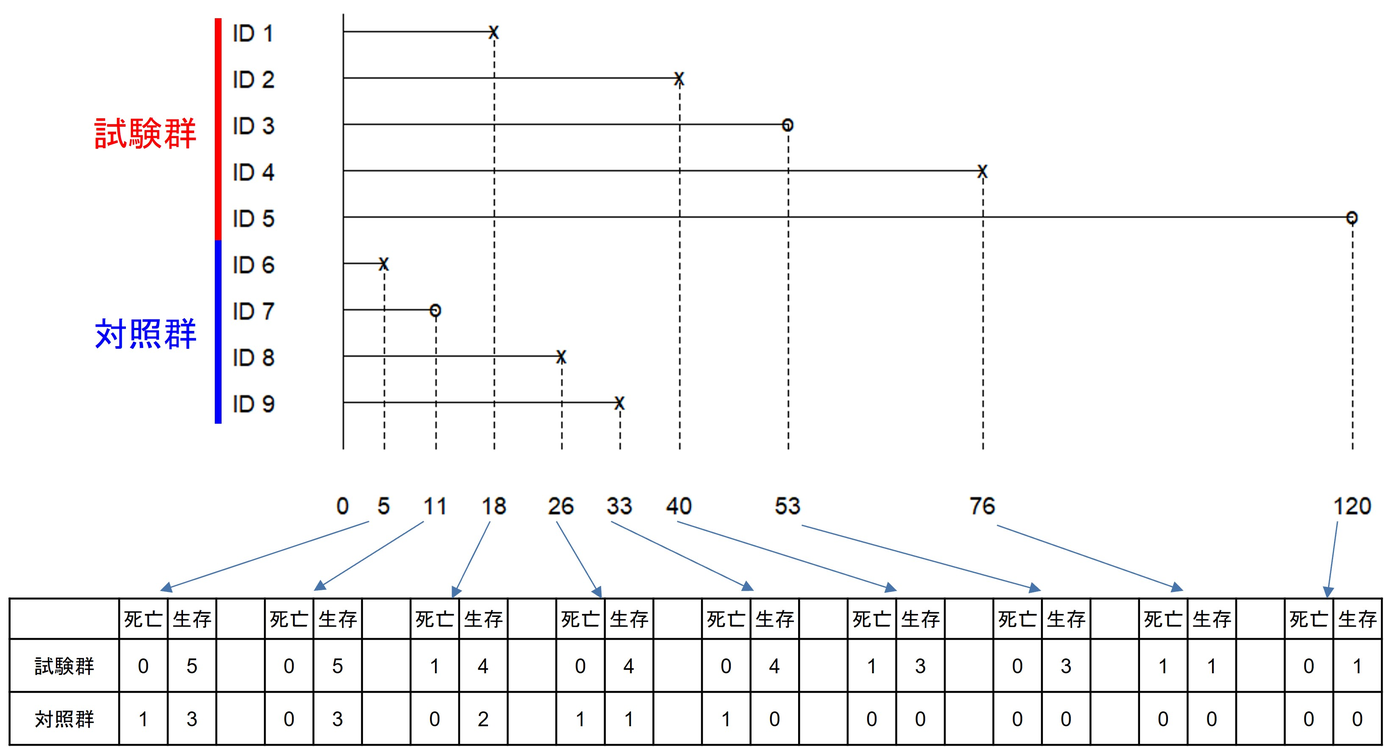
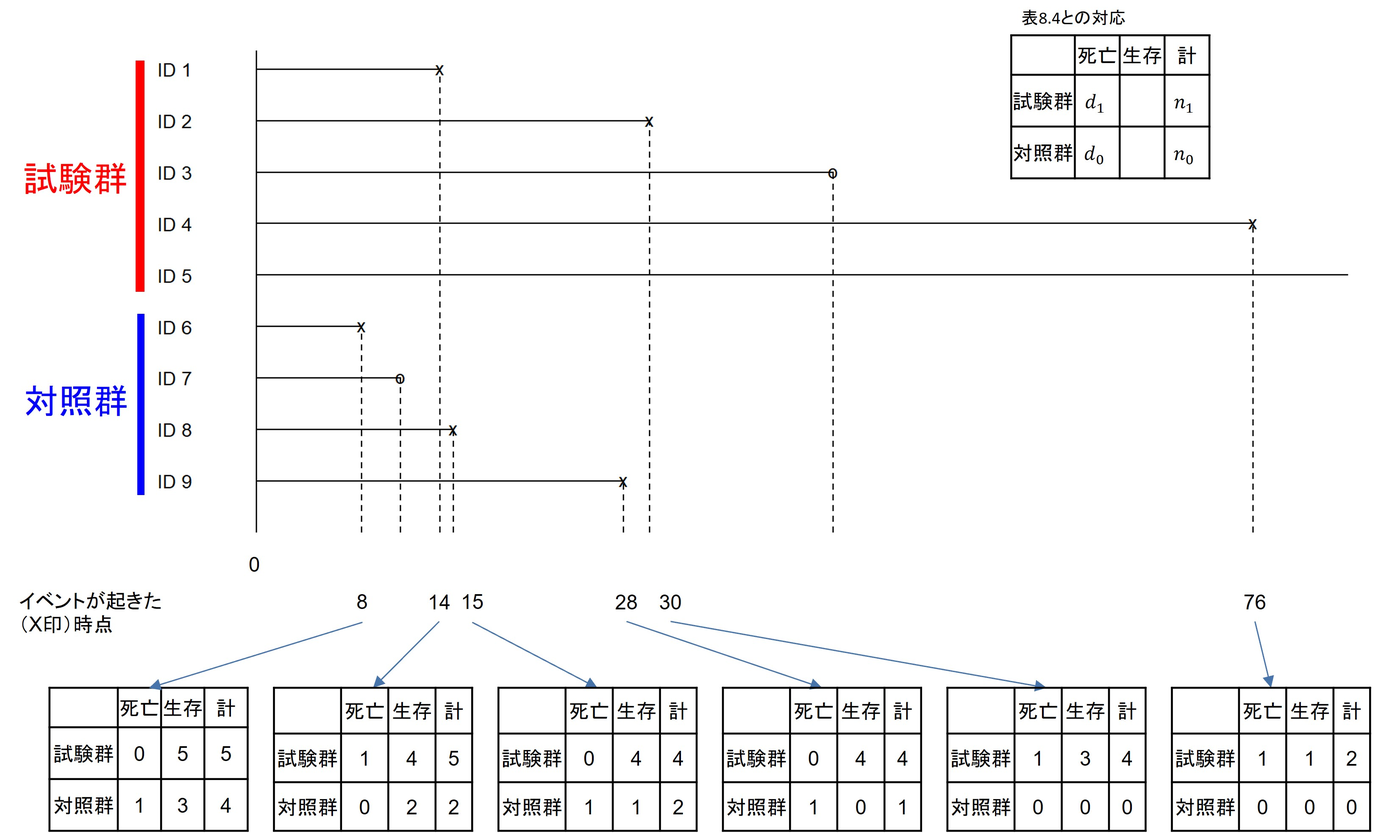
Built site for gh-pages

diff --git a/posts/data/index.html b/posts/data/index.html
@@ -7,7 +7,7 @@
 <meta name="viewport" content="width=device-width, initial-scale=1.0, user-scalable=yes">
 
 <meta name="author" content="川口淳">
-<meta name="dcterms.date" content="2026-10-19">
+<meta name="dcterms.date" content="2026-10-30">
 
 <title>演習問題のデータ – サポートページ</title>
 <style>
@@ -169,7 +169,7 @@ ul.task-list li input[type="checkbox"] {
       <div>
       <div class="quarto-title-meta-heading">Published</div>
       <div class="quarto-title-meta-contents">
-        <p class="date">2026-10-19</p>
+        <p class="date">2026-10-30</p>
       </div>
     </div>
     
@@ -203,8 +203,8 @@ ul.task-list li input[type="checkbox"] {
 <p>データファイル：<a href="./2群の血圧変化量の差.xlsx">2群の血圧変化量の差.xlsx</a></p>
 <div class="cell">
 <div class="cell-output-display">
-<div class="datatables html-widget html-fill-item" id="htmlwidget-681cce1bd1fee921a76f" style="width:100%;height:auto;"></div>
-<script type="application/json" data-for="htmlwidget-681cce1bd1fee921a76f">{"x":{"filter":"top","vertical":false,"filterHTML":"<tr>\n  <td><\/td>\n  <td data-type=\"character\" style=\"vertical-align: top;\">\n    <div class=\"form-group has-feedback\" style=\"margin-bottom: auto;\">\n      <input type=\"search\" placeholder=\"All\" class=\"form-control\" style=\"width: 100%;\"/>\n      <span class=\"glyphicon glyphicon-remove-circle form-control-feedback\"><\/span>\n    <\/div>\n  <\/td>\n  <td data-type=\"character\" style=\"vertical-align: top;\">\n    <div class=\"form-group has-feedback\" style=\"margin-bottom: auto;\">\n      <input type=\"search\" placeholder=\"All\" class=\"form-control\" style=\"width: 100%;\"/>\n      <span class=\"glyphicon glyphicon-remove-circle form-control-feedback\"><\/span>\n    <\/div>\n  <\/td>\n  <td data-type=\"number\" style=\"vertical-align: top;\">\n    <div class=\"form-group has-feedback\" style=\"margin-bottom: auto;\">\n      <input type=\"search\" placeholder=\"All\" class=\"form-control\" style=\"width: 100%;\"/>\n      <span class=\"glyphicon glyphicon-remove-circle form-control-feedback\"><\/span>\n    <\/div>\n    <div style=\"display: none;position: absolute;width: 200px;opacity: 1\">\n      <div data-min=\"-6\" data-max=\"2\"><\/div>\n      <span style=\"float: left;\"><\/span>\n      <span style=\"float: right;\"><\/span>\n    <\/div>\n  <\/td>\n<\/tr>","data":[["1","2","3","4","5","6","7","8","9"],["I1","I2","I3","I4","I5","C1","C2","C3","C4"],["介入群","介入群","介入群","介入群","介入群","対照群","対照群","対照群","対照群"],[-2,-6,-3,-1,-5,2,-1,0,-2]],"container":"<table class=\"display\">\n  <thead>\n    <tr>\n      <th> <\/th>\n      <th>id<\/th>\n      <th>group<\/th>\n      <th>delta<\/th>\n    <\/tr>\n  <\/thead>\n<\/table>","options":{"pageLength":5,"autoWidth":true,"columnDefs":[{"className":"dt-right","targets":3},{"orderable":false,"targets":0},{"name":" ","targets":0},{"name":"id","targets":1},{"name":"group","targets":2},{"name":"delta","targets":3}],"order":[],"orderClasses":false,"orderCellsTop":true,"lengthMenu":[5,10,25,50,100]}},"evals":[],"jsHooks":[]}</script>
+<div class="datatables html-widget html-fill-item" id="htmlwidget-f94af85f06427eca7bf8" style="width:100%;height:auto;"></div>
+<script type="application/json" data-for="htmlwidget-f94af85f06427eca7bf8">{"x":{"filter":"top","vertical":false,"filterHTML":"<tr>\n  <td><\/td>\n  <td data-type=\"character\" style=\"vertical-align: top;\">\n    <div class=\"form-group has-feedback\" style=\"margin-bottom: auto;\">\n      <input type=\"search\" placeholder=\"All\" class=\"form-control\" style=\"width: 100%;\"/>\n      <span class=\"glyphicon glyphicon-remove-circle form-control-feedback\"><\/span>\n    <\/div>\n  <\/td>\n  <td data-type=\"character\" style=\"vertical-align: top;\">\n    <div class=\"form-group has-feedback\" style=\"margin-bottom: auto;\">\n      <input type=\"search\" placeholder=\"All\" class=\"form-control\" style=\"width: 100%;\"/>\n      <span class=\"glyphicon glyphicon-remove-circle form-control-feedback\"><\/span>\n    <\/div>\n  <\/td>\n  <td data-type=\"number\" style=\"vertical-align: top;\">\n    <div class=\"form-group has-feedback\" style=\"margin-bottom: auto;\">\n      <input type=\"search\" placeholder=\"All\" class=\"form-control\" style=\"width: 100%;\"/>\n      <span class=\"glyphicon glyphicon-remove-circle form-control-feedback\"><\/span>\n    <\/div>\n    <div style=\"display: none;position: absolute;width: 200px;opacity: 1\">\n      <div data-min=\"-6\" data-max=\"2\"><\/div>\n      <span style=\"float: left;\"><\/span>\n      <span style=\"float: right;\"><\/span>\n    <\/div>\n  <\/td>\n<\/tr>","data":[["1","2","3","4","5","6","7","8","9"],["I1","I2","I3","I4","I5","C1","C2","C3","C4"],["介入群","介入群","介入群","介入群","介入群","対照群","対照群","対照群","対照群"],[-2,-6,-3,-1,-5,2,-1,0,-2]],"container":"<table class=\"display\">\n  <thead>\n    <tr>\n      <th> <\/th>\n      <th>id<\/th>\n      <th>group<\/th>\n      <th>delta<\/th>\n    <\/tr>\n  <\/thead>\n<\/table>","options":{"pageLength":10,"autoWidth":true,"columnDefs":[{"className":"dt-right","targets":3},{"orderable":false,"targets":0},{"name":" ","targets":0},{"name":"id","targets":1},{"name":"group","targets":2},{"name":"delta","targets":3}],"order":[],"orderClasses":false,"orderCellsTop":true}},"evals":[],"jsHooks":[]}</script>
 </div>
 </div>
 </section>
@@ -213,8 +213,8 @@ ul.task-list li input[type="checkbox"] {
 <p>データファイル：<a href="./回帰分析例データ.xlsx">回帰分析例データ.xlsx</a></p>
 <div class="cell">
 <div class="cell-output-display">
-<div class="datatables html-widget html-fill-item" id="htmlwidget-64619aa279c014d79339" style="width:100%;height:auto;"></div>
-<script type="application/json" data-for="htmlwidget-64619aa279c014d79339">{"x":{"filter":"top","vertical":false,"filterHTML":"<tr>\n  <td><\/td>\n  <td data-type=\"number\" style=\"vertical-align: top;\">\n    <div class=\"form-group has-feedback\" style=\"margin-bottom: auto;\">\n      <input type=\"search\" placeholder=\"All\" class=\"form-control\" style=\"width: 100%;\"/>\n      <span class=\"glyphicon glyphicon-remove-circle form-control-feedback\"><\/span>\n    <\/div>\n    <div style=\"display: none;position: absolute;width: 200px;opacity: 1\">\n      <div data-min=\"1\" data-max=\"20\"><\/div>\n      <span style=\"float: left;\"><\/span>\n      <span style=\"float: right;\"><\/span>\n    <\/div>\n  <\/td>\n  <td data-type=\"number\" style=\"vertical-align: top;\">\n    <div class=\"form-group has-feedback\" style=\"margin-bottom: auto;\">\n      <input type=\"search\" placeholder=\"All\" class=\"form-control\" style=\"width: 100%;\"/>\n      <span class=\"glyphicon glyphicon-remove-circle form-control-feedback\"><\/span>\n    <\/div>\n    <div style=\"display: none;position: absolute;width: 200px;opacity: 1\">\n      <div data-min=\"-26\" data-max=\"0\"><\/div>\n      <span style=\"float: left;\"><\/span>\n      <span style=\"float: right;\"><\/span>\n    <\/div>\n  <\/td>\n  <td data-type=\"character\" style=\"vertical-align: top;\">\n    <div class=\"form-group has-feedback\" style=\"margin-bottom: auto;\">\n      <input type=\"search\" placeholder=\"All\" class=\"form-control\" style=\"width: 100%;\"/>\n      <span class=\"glyphicon glyphicon-remove-circle form-control-feedback\"><\/span>\n    <\/div>\n  <\/td>\n  <td data-type=\"number\" style=\"vertical-align: top;\">\n    <div class=\"form-group has-feedback\" style=\"margin-bottom: auto;\">\n      <input type=\"search\" placeholder=\"All\" class=\"form-control\" style=\"width: 100%;\"/>\n      <span class=\"glyphicon glyphicon-remove-circle form-control-feedback\"><\/span>\n    <\/div>\n    <div style=\"display: none;position: absolute;width: 200px;opacity: 1\">\n      <div data-min=\"43\" data-max=\"79\"><\/div>\n      <span style=\"float: left;\"><\/span>\n      <span style=\"float: right;\"><\/span>\n    <\/div>\n  <\/td>\n  <td data-type=\"character\" style=\"vertical-align: top;\">\n    <div class=\"form-group has-feedback\" style=\"margin-bottom: auto;\">\n      <input type=\"search\" placeholder=\"All\" class=\"form-control\" style=\"width: 100%;\"/>\n      <span class=\"glyphicon glyphicon-remove-circle form-control-feedback\"><\/span>\n    <\/div>\n  <\/td>\n  <td data-type=\"character\" style=\"vertical-align: top;\">\n    <div class=\"form-group has-feedback\" style=\"margin-bottom: auto;\">\n      <input type=\"search\" placeholder=\"All\" class=\"form-control\" style=\"width: 100%;\"/>\n      <span class=\"glyphicon glyphicon-remove-circle form-control-feedback\"><\/span>\n    <\/div>\n  <\/td>\n<\/tr>","data":[["1","2","3","4","5","6","7","8","9","10","11","12","13","14","15","16","17","18","19","20"],[1,2,3,4,5,6,7,8,9,10,11,12,13,14,15,16,17,18,19,20],[-23,-15,-15,-12,-13,-18,0,-18,-2,-24,-26,-16,-16,-4,-18,-7,-23,-10,-15,-16],["対照群","対照群","対照群","対照群","対照群","対照群","対照群","対照群","対照群","対照群","試験群","試験群","試験群","試験群","試験群","試験群","試験群","試験群","試験群","試験群"],[44,60,55,57,52,46,76,49,79,46,43,56,62,75,49,77,50,73,64,57],["15以上","15以上","15以上","15未満","15未満","15以上","15未満","15以上","15未満","15以上","15以上","15以上","15以上","15未満","15以上","15未満","15以上","15未満","15以上","15以上"],["50歳未満","60歳以上","50-60","50-60","50-60","50歳未満","60歳以上","50歳未満","60歳以上","50歳未満","50歳未満","50-60","60歳以上","60歳以上","50歳未満","60歳以上","50-60","60歳以上","60歳以上","50-60"]],"container":"<table class=\"display\">\n  <thead>\n    <tr>\n      <th> <\/th>\n      <th>ID<\/th>\n      <th>血圧変化量<\/th>\n      <th>群<\/th>\n      <th>年齢<\/th>\n      <th>血圧変化量二値化<\/th>\n      <th>年齢カテゴリ化<\/th>\n    <\/tr>\n  <\/thead>\n<\/table>","options":{"pageLength":5,"autoWidth":true,"columnDefs":[{"className":"dt-right","targets":[1,2,4]},{"orderable":false,"targets":0},{"name":" ","targets":0},{"name":"ID","targets":1},{"name":"血圧変化量","targets":2},{"name":"群","targets":3},{"name":"年齢","targets":4},{"name":"血圧変化量二値化","targets":5},{"name":"年齢カテゴリ化","targets":6}],"order":[],"orderClasses":false,"orderCellsTop":true,"lengthMenu":[5,10,25,50,100]}},"evals":[],"jsHooks":[]}</script>
+<div class="datatables html-widget html-fill-item" id="htmlwidget-8d841d03ed8891a0b58b" style="width:100%;height:auto;"></div>
+<script type="application/json" data-for="htmlwidget-8d841d03ed8891a0b58b">{"x":{"filter":"top","vertical":false,"filterHTML":"<tr>\n  <td><\/td>\n  <td data-type=\"number\" style=\"vertical-align: top;\">\n    <div class=\"form-group has-feedback\" style=\"margin-bottom: auto;\">\n      <input type=\"search\" placeholder=\"All\" class=\"form-control\" style=\"width: 100%;\"/>\n      <span class=\"glyphicon glyphicon-remove-circle form-control-feedback\"><\/span>\n    <\/div>\n    <div style=\"display: none;position: absolute;width: 200px;opacity: 1\">\n      <div data-min=\"1\" data-max=\"20\"><\/div>\n      <span style=\"float: left;\"><\/span>\n      <span style=\"float: right;\"><\/span>\n    <\/div>\n  <\/td>\n  <td data-type=\"number\" style=\"vertical-align: top;\">\n    <div class=\"form-group has-feedback\" style=\"margin-bottom: auto;\">\n      <input type=\"search\" placeholder=\"All\" class=\"form-control\" style=\"width: 100%;\"/>\n      <span class=\"glyphicon glyphicon-remove-circle form-control-feedback\"><\/span>\n    <\/div>\n    <div style=\"display: none;position: absolute;width: 200px;opacity: 1\">\n      <div data-min=\"-26\" data-max=\"0\"><\/div>\n      <span style=\"float: left;\"><\/span>\n      <span style=\"float: right;\"><\/span>\n    <\/div>\n  <\/td>\n  <td data-type=\"character\" style=\"vertical-align: top;\">\n    <div class=\"form-group has-feedback\" style=\"margin-bottom: auto;\">\n      <input type=\"search\" placeholder=\"All\" class=\"form-control\" style=\"width: 100%;\"/>\n      <span class=\"glyphicon glyphicon-remove-circle form-control-feedback\"><\/span>\n    <\/div>\n  <\/td>\n  <td data-type=\"number\" style=\"vertical-align: top;\">\n    <div class=\"form-group has-feedback\" style=\"margin-bottom: auto;\">\n      <input type=\"search\" placeholder=\"All\" class=\"form-control\" style=\"width: 100%;\"/>\n      <span class=\"glyphicon glyphicon-remove-circle form-control-feedback\"><\/span>\n    <\/div>\n    <div style=\"display: none;position: absolute;width: 200px;opacity: 1\">\n      <div data-min=\"43\" data-max=\"79\"><\/div>\n      <span style=\"float: left;\"><\/span>\n      <span style=\"float: right;\"><\/span>\n    <\/div>\n  <\/td>\n  <td data-type=\"character\" style=\"vertical-align: top;\">\n    <div class=\"form-group has-feedback\" style=\"margin-bottom: auto;\">\n      <input type=\"search\" placeholder=\"All\" class=\"form-control\" style=\"width: 100%;\"/>\n      <span class=\"glyphicon glyphicon-remove-circle form-control-feedback\"><\/span>\n    <\/div>\n  <\/td>\n  <td data-type=\"character\" style=\"vertical-align: top;\">\n    <div class=\"form-group has-feedback\" style=\"margin-bottom: auto;\">\n      <input type=\"search\" placeholder=\"All\" class=\"form-control\" style=\"width: 100%;\"/>\n      <span class=\"glyphicon glyphicon-remove-circle form-control-feedback\"><\/span>\n    <\/div>\n  <\/td>\n<\/tr>","data":[["1","2","3","4","5","6","7","8","9","10","11","12","13","14","15","16","17","18","19","20"],[1,2,3,4,5,6,7,8,9,10,11,12,13,14,15,16,17,18,19,20],[-23,-15,-15,-12,-13,-18,0,-18,-2,-24,-26,-16,-16,-4,-18,-7,-23,-10,-15,-16],["対照群","対照群","対照群","対照群","対照群","対照群","対照群","対照群","対照群","対照群","試験群","試験群","試験群","試験群","試験群","試験群","試験群","試験群","試験群","試験群"],[44,60,55,57,52,46,76,49,79,46,43,56,62,75,49,77,50,73,64,57],["15以上","15以上","15以上","15未満","15未満","15以上","15未満","15以上","15未満","15以上","15以上","15以上","15以上","15未満","15以上","15未満","15以上","15未満","15以上","15以上"],["50歳未満","60歳以上","50-60","50-60","50-60","50歳未満","60歳以上","50歳未満","60歳以上","50歳未満","50歳未満","50-60","60歳以上","60歳以上","50歳未満","60歳以上","50-60","60歳以上","60歳以上","50-60"]],"container":"<table class=\"display\">\n  <thead>\n    <tr>\n      <th> <\/th>\n      <th>ID<\/th>\n      <th>血圧変化量<\/th>\n      <th>群<\/th>\n      <th>年齢<\/th>\n      <th>血圧変化量二値化<\/th>\n      <th>年齢カテゴリ化<\/th>\n    <\/tr>\n  <\/thead>\n<\/table>","options":{"pageLength":5,"autoWidth":true,"columnDefs":[{"className":"dt-right","targets":[1,2,4]},{"orderable":false,"targets":0},{"name":" ","targets":0},{"name":"ID","targets":1},{"name":"血圧変化量","targets":2},{"name":"群","targets":3},{"name":"年齢","targets":4},{"name":"血圧変化量二値化","targets":5},{"name":"年齢カテゴリ化","targets":6}],"order":[],"orderClasses":false,"orderCellsTop":true,"lengthMenu":[5,10,25,50,100]}},"evals":[],"jsHooks":[]}</script>
 </div>
 </div>
 </section>
@@ -223,8 +223,8 @@ ul.task-list li input[type="checkbox"] {
 <p>データファイル：<a href="./生存時間例データ.xlsx">生存時間例データ.xlsx</a></p>
 <div class="cell">
 <div class="cell-output-display">
-<div class="datatables html-widget html-fill-item" id="htmlwidget-fe29438d1b3bd26accb2" style="width:100%;height:auto;"></div>
-<script type="application/json" data-for="htmlwidget-fe29438d1b3bd26accb2">{"x":{"filter":"top","vertical":false,"filterHTML":"<tr>\n  <td><\/td>\n  <td data-type=\"number\" style=\"vertical-align: top;\">\n    <div class=\"form-group has-feedback\" style=\"margin-bottom: auto;\">\n      <input type=\"search\" placeholder=\"All\" class=\"form-control\" style=\"width: 100%;\"/>\n      <span class=\"glyphicon glyphicon-remove-circle form-control-feedback\"><\/span>\n    <\/div>\n    <div style=\"display: none;position: absolute;width: 200px;opacity: 1\">\n      <div data-min=\"8\" data-max=\"120\"><\/div>\n      <span style=\"float: left;\"><\/span>\n      <span style=\"float: right;\"><\/span>\n    <\/div>\n  <\/td>\n  <td data-type=\"number\" style=\"vertical-align: top;\">\n    <div class=\"form-group has-feedback\" style=\"margin-bottom: auto;\">\n      <input type=\"search\" placeholder=\"All\" class=\"form-control\" style=\"width: 100%;\"/>\n      <span class=\"glyphicon glyphicon-remove-circle form-control-feedback\"><\/span>\n    <\/div>\n    <div style=\"display: none;position: absolute;width: 200px;opacity: 1\">\n      <div data-min=\"0\" data-max=\"1\"><\/div>\n      <span style=\"float: left;\"><\/span>\n      <span style=\"float: right;\"><\/span>\n    <\/div>\n  <\/td>\n  <td data-type=\"character\" style=\"vertical-align: top;\">\n    <div class=\"form-group has-feedback\" style=\"margin-bottom: auto;\">\n      <input type=\"search\" placeholder=\"All\" class=\"form-control\" style=\"width: 100%;\"/>\n      <span class=\"glyphicon glyphicon-remove-circle form-control-feedback\"><\/span>\n    <\/div>\n  <\/td>\n<\/tr>","data":[["1","2","3","4","5","6","7","8","9"],[14,30,44,76,120,8,11,15,28],[1,1,0,1,0,1,0,1,1],["試験","試験","試験","試験","試験","対照","対照","対照","対照"]],"container":"<table class=\"display\">\n  <thead>\n    <tr>\n      <th> <\/th>\n      <th>生存時間<\/th>\n      <th>打ち切り<\/th>\n      <th>群<\/th>\n    <\/tr>\n  <\/thead>\n<\/table>","options":{"pageLength":5,"autoWidth":true,"columnDefs":[{"className":"dt-right","targets":[1,2]},{"orderable":false,"targets":0},{"name":" ","targets":0},{"name":"生存時間","targets":1},{"name":"打ち切り","targets":2},{"name":"群","targets":3}],"order":[],"orderClasses":false,"orderCellsTop":true,"lengthMenu":[5,10,25,50,100]}},"evals":[],"jsHooks":[]}</script>
+<div class="datatables html-widget html-fill-item" id="htmlwidget-ebf2e9f23f4c9c5d772c" style="width:100%;height:auto;"></div>
+<script type="application/json" data-for="htmlwidget-ebf2e9f23f4c9c5d772c">{"x":{"filter":"top","vertical":false,"filterHTML":"<tr>\n  <td><\/td>\n  <td data-type=\"number\" style=\"vertical-align: top;\">\n    <div class=\"form-group has-feedback\" style=\"margin-bottom: auto;\">\n      <input type=\"search\" placeholder=\"All\" class=\"form-control\" style=\"width: 100%;\"/>\n      <span class=\"glyphicon glyphicon-remove-circle form-control-feedback\"><\/span>\n    <\/div>\n    <div style=\"display: none;position: absolute;width: 200px;opacity: 1\">\n      <div data-min=\"5\" data-max=\"120\"><\/div>\n      <span style=\"float: left;\"><\/span>\n      <span style=\"float: right;\"><\/span>\n    <\/div>\n  <\/td>\n  <td data-type=\"number\" style=\"vertical-align: top;\">\n    <div class=\"form-group has-feedback\" style=\"margin-bottom: auto;\">\n      <input type=\"search\" placeholder=\"All\" class=\"form-control\" style=\"width: 100%;\"/>\n      <span class=\"glyphicon glyphicon-remove-circle form-control-feedback\"><\/span>\n    <\/div>\n    <div style=\"display: none;position: absolute;width: 200px;opacity: 1\">\n      <div data-min=\"0\" data-max=\"1\"><\/div>\n      <span style=\"float: left;\"><\/span>\n      <span style=\"float: right;\"><\/span>\n    <\/div>\n  <\/td>\n  <td data-type=\"character\" style=\"vertical-align: top;\">\n    <div class=\"form-group has-feedback\" style=\"margin-bottom: auto;\">\n      <input type=\"search\" placeholder=\"All\" class=\"form-control\" style=\"width: 100%;\"/>\n      <span class=\"glyphicon glyphicon-remove-circle form-control-feedback\"><\/span>\n    <\/div>\n  <\/td>\n<\/tr>","data":[["1","2","3","4","5","6","7","8","9"],[14,30,44,76,120,5,11,26,33],[1,1,0,1,0,1,0,1,1],["試験","試験","試験","試験","試験","対照","対照","対照","対照"]],"container":"<table class=\"display\">\n  <thead>\n    <tr>\n      <th> <\/th>\n      <th>生存時間<\/th>\n      <th>打ち切り<\/th>\n      <th>群<\/th>\n    <\/tr>\n  <\/thead>\n<\/table>","options":{"pageLength":10,"autoWidth":true,"columnDefs":[{"className":"dt-right","targets":[1,2]},{"orderable":false,"targets":0},{"name":" ","targets":0},{"name":"生存時間","targets":1},{"name":"打ち切り","targets":2},{"name":"群","targets":3}],"order":[],"orderClasses":false,"orderCellsTop":true}},"evals":[],"jsHooks":[]}</script>
 </div>
 </div>
 

diff --git a/index.html b/index.html
@@ -221,7 +221,7 @@ window.Quarto = {
 
 <div class="quarto-listing quarto-listing-container-default" id="listing-listing">
 <div class="list quarto-listing-default">
-<div class="quarto-post image-right" data-index="0" data-categories="bmV3cw==" data-listing-date-sort="1792335600000" data-listing-file-modified-sort="1792390581026" data-listing-date-modified-sort="NaN" data-listing-reading-time-sort="1" data-listing-word-count-sort="1">
+<div class="quarto-post image-right" data-index="0" data-categories="bmV3cw==" data-listing-date-sort="1793286000000" data-listing-file-modified-sort="1793330459968" data-listing-date-modified-sort="NaN" data-listing-reading-time-sort="1" data-listing-word-count-sort="13">
 <div class="thumbnail"><a href="./posts/correction/index.html" class="no-external">
 
 <p class="card-img-top"><img src="posts\correction\図8.4.jpg"  class="thumbnail-image card-img"/></p>
@@ -237,13 +237,13 @@ window.Quarto = {
 
 </div>
 <div class="delink listing-description"><a href="./posts/correction/index.html" class="no-external">
-「新規治療群」→「試験群」，「対照治療群」→「対照群」
+「発生時点は5 か月、11 か月、26 か月、33 か月である。」 → 「発生時点は8 か月、11 か月、15 か月、28 か月である。」
 </a></div>
 </div>
 <div class="metadata">
 <a href="./posts/correction/index.html" class="no-external">
 <div class="listing-date">
-Oct 19, 2026
+Oct 30, 2026
 </div>
 <div class="listing-author">
 川口淳
@@ -251,7 +251,7 @@ Oct 19, 2026
 </a>
 </div>
 </div>
-<div class="quarto-post image-right" data-index="1" data-categories="bmV3cyUyQ2NvZGUlMkNhbmFseXNpcw==" data-listing-date-sort="1792335600000" data-listing-file-modified-sort="1786087154952" data-listing-date-modified-sort="NaN" data-listing-reading-time-sort="1" data-listing-word-count-sort="93">
+<div class="quarto-post image-right" data-index="1" data-categories="bmV3cyUyQ2NvZGUlMkNhbmFseXNpcw==" data-listing-date-sort="1793286000000" data-listing-file-modified-sort="1792661601852" data-listing-date-modified-sort="NaN" data-listing-reading-time-sort="1" data-listing-word-count-sort="93">
 <div class="thumbnail"><a href="./posts/data/index.html" class="no-external">
 
 <div class="listing-item-img-placeholder card-img-top" >&nbsp;</div>
@@ -277,7 +277,7 @@ Oct 19, 2026
 <div class="metadata">
 <a href="./posts/data/index.html" class="no-external">
 <div class="listing-date">
-Oct 19, 2026
+Oct 30, 2026
 </div>
 <div class="listing-author">
 川口淳
@@ -285,7 +285,7 @@ Oct 19, 2026
 </a>
 </div>
 </div>
-<div class="quarto-post image-right" data-index="2" data-categories="bmV3cyUyQ2NvZGUlMkNhbmFseXNpcw==" data-listing-date-sort="1792335600000" data-listing-file-modified-sort="1792113667558" data-listing-date-modified-sort="NaN" data-listing-reading-time-sort="4" data-listing-word-count-sort="768">
+<div class="quarto-post image-right" data-index="2" data-categories="bmV3cyUyQ2NvZGUlMkNhbmFseXNpcw==" data-listing-date-sort="1793286000000" data-listing-file-modified-sort="1792113667558" data-listing-date-modified-sort="NaN" data-listing-reading-time-sort="4" data-listing-word-count-sort="768">
 <div class="thumbnail"><a href="./posts/exercise/index.html" class="no-external">
 
 <div class="listing-item-img-placeholder card-img-top" >&nbsp;</div>
@@ -311,7 +311,7 @@ Oct 19, 2026
 <div class="metadata">
 <a href="./posts/exercise/index.html" class="no-external">
 <div class="listing-date">
-Oct 19, 2026
+Oct 30, 2026
 </div>
 <div class="listing-author">
 川口淳
@@ -319,7 +319,7 @@ Oct 19, 2026
 </a>
 </div>
 </div>
-<div class="quarto-post image-right" data-index="3" data-categories="bmV3cyUyQ2NvZGUlMkNhbmFseXNpcw==" data-listing-date-sort="1792335600000" data-listing-file-modified-sort="1788414423922" data-listing-date-modified-sort="NaN" data-listing-reading-time-sort="7" data-listing-word-count-sort="1311">
+<div class="quarto-post image-right" data-index="3" data-categories="bmV3cyUyQ2NvZGUlMkNhbmFseXNpcw==" data-listing-date-sort="1793286000000" data-listing-file-modified-sort="1788414423922" data-listing-date-modified-sort="NaN" data-listing-reading-time-sort="7" data-listing-word-count-sort="1311">
 <div class="thumbnail"><a href="./posts/post-with-code/index.html" class="no-external">
 
 <img loading="lazy" src="./posts/post-with-code/R_logo_2000.png" class="thumbnail-image">
@@ -345,7 +345,7 @@ Oct 19, 2026
 <div class="metadata">
 <a href="./posts/post-with-code/index.html" class="no-external">
 <div class="listing-date">
-Oct 19, 2026
+Oct 30, 2026
 </div>
 <div class="listing-author">
 川口淳
@@ -353,7 +353,7 @@ Oct 19, 2026
 </a>
 </div>
 </div>
-<div class="quarto-post image-right" data-index="4" data-categories="bmV3cw==" data-listing-date-sort="1792335600000" data-listing-file-modified-sort="1786086623390" data-listing-date-modified-sort="NaN" data-listing-reading-time-sort="1" data-listing-word-count-sort="3">
+<div class="quarto-post image-right" data-index="4" data-categories="bmV3cw==" data-listing-date-sort="1786028400000" data-listing-file-modified-sort="1792661723721" data-listing-date-modified-sort="NaN" data-listing-reading-time-sort="1" data-listing-word-count-sort="3">
 <div class="thumbnail"><a href="./posts/welcome/index.html" class="no-external">
 
 <div class="listing-item-img-placeholder card-img-top" >&nbsp;</div>
@@ -375,7 +375,7 @@ Oct 19, 2026
 <div class="metadata">
 <a href="./posts/welcome/index.html" class="no-external">
 <div class="listing-date">
-Oct 19, 2026
+Aug 7, 2026
 </div>
 <div class="listing-author">
 川口淳

diff --git a/posts/correction/index.html b/posts/correction/index.html
@@ -7,7 +7,7 @@
 <meta name="viewport" content="width=device-width, initial-scale=1.0, user-scalable=yes">
 
 <meta name="author" content="川口淳">
-<meta name="dcterms.date" content="2026-10-19">
+<meta name="dcterms.date" content="2026-10-30">
 
 <title>修正ページ – サポートページ</title>
 <style>
@@ -139,7 +139,7 @@ ul.task-list li input[type="checkbox"] {
       <div>
       <div class="quarto-title-meta-heading">Published</div>
       <div class="quarto-title-meta-contents">
-        <p class="date">2026-10-19</p>
+        <p class="date">2026-10-30</p>
       </div>
     </div>
     
@@ -155,7 +155,9 @@ ul.task-list li input[type="checkbox"] {
     <h2 id="toc-title">On this page</h2>
    
   <ul>
-  <li><a href="#図8.4255ページ" id="toc-図8.4255ページ" class="nav-link active" data-scroll-target="#図8.4255ページ">図8.4（255ページ）</a></li>
+  <li><a href="#例8.2253ページ" id="toc-例8.2253ページ" class="nav-link active" data-scroll-target="#例8.2253ページ">例8.2（253ページ）</a></li>
+  <li><a href="#図8.4255ページ" id="toc-図8.4255ページ" class="nav-link" data-scroll-target="#図8.4255ページ">図8.4（255ページ）</a></li>
+  <li><a href="#図8.4の下の文章255ページ" id="toc-図8.4の下の文章255ページ" class="nav-link" data-scroll-target="#図8.4の下の文章255ページ">図8.4の下の文章（255ページ）</a></li>
   </ul>
 </nav>
     </div>
@@ -166,10 +168,18 @@ ul.task-list li input[type="checkbox"] {
 
 
 
+<section id="例8.2253ページ" class="level1">
+<h1>例8.2（253ページ）</h1>
+<p>「発生時点は5 か月、11 か月、26 か月、33 か月である。」 → 「発生時点は8 か月、11 か月、15 か月、28 か月である。」</p>
+</section>
 <section id="図8.4255ページ" class="level1">
 <h1>図8.4（255ページ）</h1>
 <p><img src="./図8.4.jpg" class="img-fluid"></p>
-<p>「新規治療群」→「試験群」，「対照治療群」→「対照群」</p>
+<p>「新規治療群」→「試験群」，「対照治療群」→「対照群」 という修正もしています。</p>
+</section>
+<section id="図8.4の下の文章255ページ" class="level1">
+<h1>図8.4の下の文章（255ページ）</h1>
+<p>「例えば、時点5 では」→「例えば、時点8 では」</p>
 
 
 </section>

diff --git a/posts/welcome/index.html b/posts/welcome/index.html
@@ -7,7 +7,7 @@
 <meta name="viewport" content="width=device-width, initial-scale=1.0, user-scalable=yes">
 
 <meta name="author" content="川口淳">
-<meta name="dcterms.date" content="2026-10-19">
+<meta name="dcterms.date" content="2026-08-07">
 
 <title>Welcome To サポートページ – サポートページ</title>
 <style>
@@ -139,7 +139,7 @@ ul.task-list li input[type="checkbox"] {
       <div>
       <div class="quarto-title-meta-heading">Published</div>
       <div class="quarto-title-meta-contents">
-        <p class="date">2026-10-19</p>
+        <p class="date">2026-08-07</p>
       </div>
     </div>
     

diff --git a/posts/exercise/index.html b/posts/exercise/index.html
@@ -7,7 +7,7 @@
 <meta name="viewport" content="width=device-width, initial-scale=1.0, user-scalable=yes">
 
 <meta name="author" content="川口淳">
-<meta name="dcterms.date" content="2026-10-19">
+<meta name="dcterms.date" content="2026-10-30">
 
 <title>演習問題の解答例 – サポートページ</title>
 <style>
@@ -170,7 +170,7 @@ window.Quarto = {
       <div>
       <div class="quarto-title-meta-heading">Published</div>
       <div class="quarto-title-meta-contents">
-        <p class="date">2026-10-19</p>
+        <p class="date">2026-10-30</p>
       </div>
     </div>
     

diff --git a/posts/post-with-code/index.html b/posts/post-with-code/index.html
@@ -7,7 +7,7 @@
 <meta name="viewport" content="width=device-width, initial-scale=1.0, user-scalable=yes">
 
 <meta name="author" content="川口淳">
-<meta name="dcterms.date" content="2026-10-19">
+<meta name="dcterms.date" content="2026-10-30">
 
 <title>R Code – サポートページ</title>
 <style>
@@ -205,7 +205,7 @@ window.Quarto = {
       <div>
       <div class="quarto-title-meta-heading">Published</div>
       <div class="quarto-title-meta-contents">
-        <p class="date">2026-10-19</p>
+        <p class="date">2026-10-30</p>
       </div>
     </div>
     
